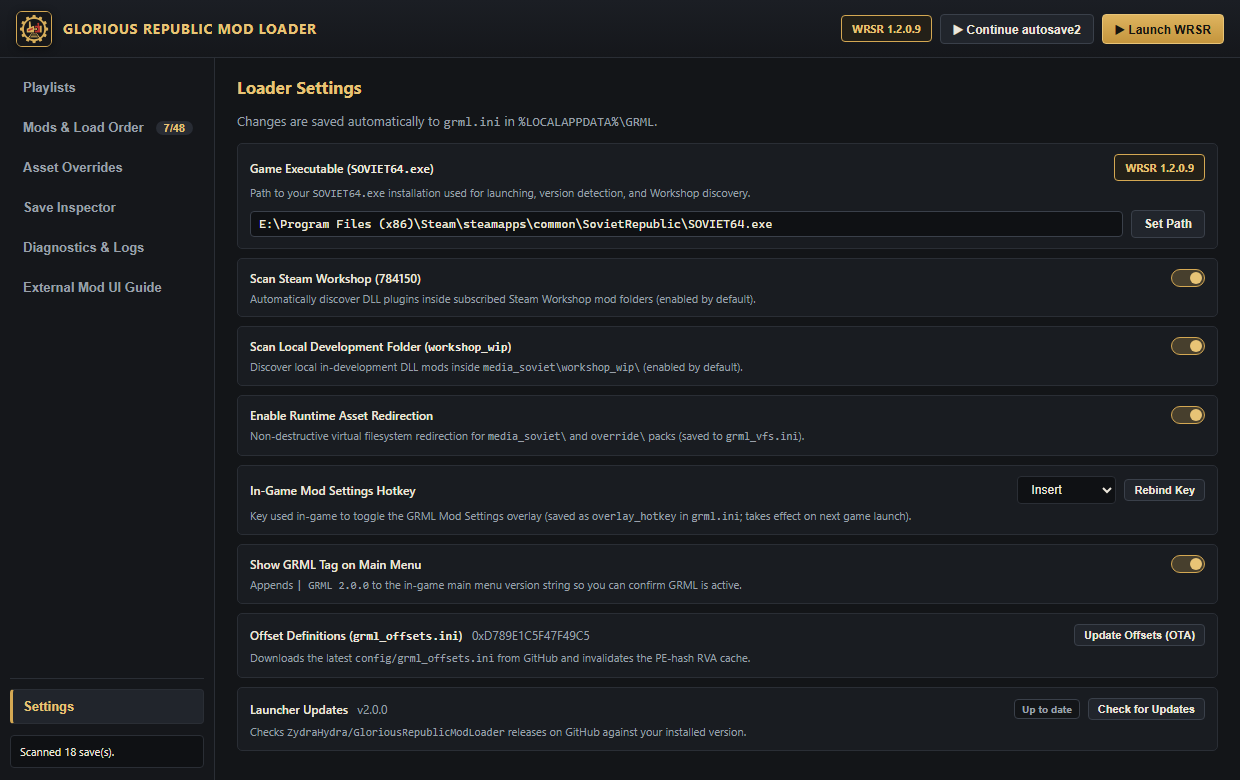
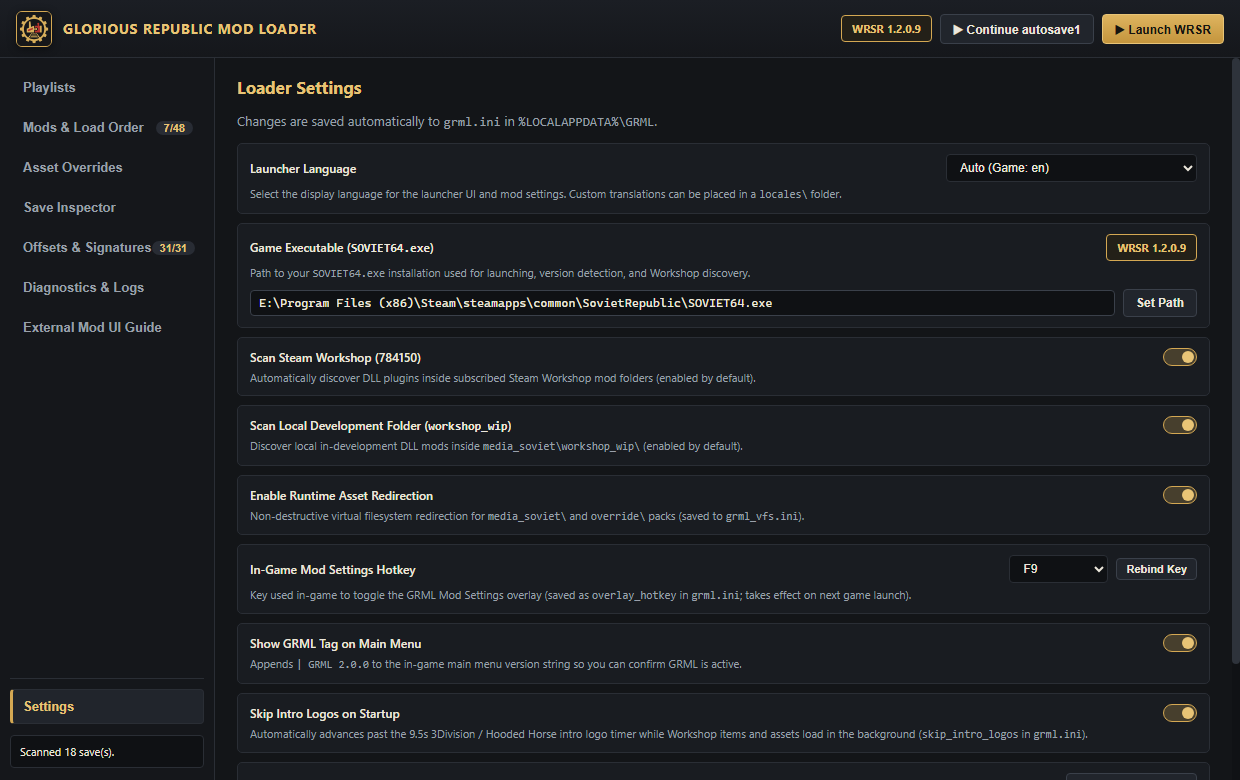
docs: refresh screenshots with Offsets & Signatures page and update docs

diff --git a/scripts/capture_screenshots.ts b/scripts/capture_screenshots.ts
@@ -1,4 +1,4 @@
-// Captures clean 1240x780 screenshots of all 7 GRML Launcher pages into docs/screenshots/
+// Captures clean 1240x780 screenshots of all 8 GRML Launcher pages into docs/screenshots/
 // using GloriousRepublicModLoader.exe --serve-only + headless Microsoft Edge CDP.
 import { dirname, fromFileUrl, join, resolve } from "jsr:@std/path@1";
 import { decodeBase64 } from "jsr:@std/encoding@1/base64";
@@ -220,6 +220,10 @@ try {
   await sleep(350);
   await cdp.screenshot(join(outDir, "04_save_inspector.png"));
 
+  await clickNav("Offsets & Signatures");
+  await sleep(400);
+  await cdp.screenshot(join(outDir, "08_offsets.png"));
+
   await clickNav("Diagnostics & Logs");
   await sleep(500);
   await cdp.screenshot(join(outDir, "05_diagnostics.png"));
@@ -230,7 +234,7 @@ try {
   await clickNav("Settings");
   await cdp.screenshot(join(outDir, "07_settings.png"));
 
-  console.log(`All 7 screenshots saved to ${outDir}`);
+  console.log(`All 8 screenshots saved to ${outDir}`);
 } finally {
   cdp?.close();
   try {

diff --git a/docs/ARCHITECTURE.md b/docs/ARCHITECTURE.md
@@ -8,6 +8,10 @@ GloriousRepublicModLoader.exe (Native Win32 + WebView2, src/launcher/)
    │  • Discovery: plugins, manifests, topo-sort, UI schemas, Media VFS, Save Inspector
    │  • Config I/O: comment-preserving grml.ini, grml_vfs.ini, configs/<id>.ini (%LOCALAPPDATA%\GRML)
    │  • Diagnostics & Updates: SOVIET64.exe status, WER EventID 1000, GitHub Release & Offset OTA check
+   │  • Offsets & Signatures: dedicated page (OffsetsView.svelte) showing 6 categories of grml_offsets.ini
+   │    signatures with live OK/CACHED/MISSING status, latest verified build + hover history, OTA update
+   │  • Pre-flight Gate: cross-checks each mod's required_offsets/optional_offsets before launch and
+   │    classifies mods as Ready / Degraded / Needs Offset Update / Legacy
    │  • Injection: CreateProcessW(CREATE_SUSPENDED) -> LoadLibraryW(grml_runtime.dll) -> GrmlBootstrap
    ▼
 grml_runtime.dll (src/runtime/, injected into SOVIET64.exe)
@@ -22,6 +26,38 @@ grml_runtime.dll (src/runtime/, injected into SOVIET64.exe)
    └── overlay_hub      DX11/ImGui Mod Settings dialog, standalone windows, hotkeys & telemetry
 ```
 
+## Launcher UI Pages (`src/launcher/ui/lib/views/`)
+
+| View file | Nav label | Purpose |
+|---|---|---|
+| `ModsView.svelte` | Mods & Load Order | Enable/disable/reorder plugins, version badges, dependency checks |
+| `PlaylistsView.svelte` | Playlists | Save/restore mod selection presets |
+| `OverridesView.svelte` | Asset Overrides | Media VFS pack priority & conflict inspection |
+| `SaveInspectorView.svelte` | Save Inspector | Scan saves, spot missing Workshop IDs, direct-to-save launch |
+| `DiagnosticsView.svelte` | Diagnostics & Logs | Live grml.log, crash attribution, one-click mod disable |
+| `UIGuideView.svelte` | UI Guide | Declarative & auto-built UI schema reference |
+| `SettingsView.svelte` | Settings | Game path, hotkey, update check, discovery options |
+| `OffsetsView.svelte` | Offsets & Signatures | Per-category offset health, build verification, OTA update |
+
 ## Shared Library (`src/common/`)
 
 Both `GloriousRepublicModLoader.exe` and `grml_runtime.dll` link against `grml_common` so INI parsing/updating, manifest topological sorting, PE/AOB scanning, declarative/auto-built UI schemas, and Media VFS indexing share a single C++20 implementation with zero logic duplication.
+
+## Offset Pipeline
+
+```text
+config/grml_offsets.ini          Declarative patterns (6 categories, multi-version AOB variants)
+        │
+        ▼
+scripts/harvest_anchors.py       Scrapes SOVIET64.exe for anchor byte-sequences to seed new patterns
+scripts/gen_sig.py               Scans a live SOVIET64.exe, generates/updates grml_offsets.ini entries
+        │                        Flags: --category, --required, --strict
+        ▼
+grml_runtime.dll / pe_scanner    At injection time: single-pass .text scan, matches patterns,
+        │                        writes RVA into O(1) PE-hash cache (grml_offset_cache.ini)
+        ▼
+GrmlWrsrOffsets (grml_api.h)     Exposes resolved offsets to mods via GrmlHostApi::GetWrsrOffsets()
+        ▼
+OffsetsView.svelte               Launcher page: live OK/CACHED/MISSING status per offset,
+                                 latest verified build badge + +N hover popover for older builds
+```

diff --git a/README.md b/README.md
@@ -33,6 +33,9 @@ GRML lets you manage Steam Workshop (`784150`) and local DLL mods, tweak mod `.i
   - If `SOVIET64.exe` crashes after loading a save, GRML alerts you with a one-click **Inspect Save** banner.
 - **Diagnostics & CrashGuard:**
   - View live `grml.log` output (with severity highlighting, search, and level filters), Windows crash attribution, and a one-click **Disable Mod** button if a plugin faults.
+- **Offsets & Pre-Flight Compatibility:**
+  - Inspect all 6 categories of `grml_offsets.ini` signatures on the dedicated **Offsets & Signatures** page with live `OK` / `CACHED` / `MISSING` status, latest verified build + hover history, and one-click OTA updates from GitHub.
+  - Pre-flight PE scanning cross-checks each mod's `required_offsets` / `optional_offsets` before launch (`Ready`, `Degraded`, `Needs Offset Update`, `Legacy`) and offers one-click temporary disabling of affected mods.
 
 ---
 
@@ -68,6 +71,9 @@ All user files live in `%LOCALAPPDATA%\GRML`:
 | :---: | :---: |
 | ![Loader Settings](docs/screenshots/07_settings.png) | ![External Mod UI Guide](docs/screenshots/06_ui_guide.png) |
 
+### Offsets & Signatures
+![Offsets & Signatures](docs/screenshots/08_offsets.png)
+
 ---
 
 ## For Mod Authors & Developers
@@ -78,6 +84,7 @@ GRML provides a pure-C ABI (`include/grml_api.h`), declarative UI schemas (`*.ui
 - [Architecture Overview](docs/ARCHITECTURE.md)
 - [Plugin SDK (`include/grml_api.h`)](docs/PLUGIN_SDK.md)
 - [Offsets, PE-Hash Caching & `gen_sig.py`](docs/OFFSETS_AND_SIGNATURES.md)
+- [Base Offset Catalog (`config/grml_offsets.ini`)](docs/OFFSET_CATALOG.md)
 - [Direct-to-Save Launch & Intro Skip (`SOVIET64.exe` `1.2.0.9`)](docs/DIRECT_SAVE_LOAD.md)
 - [Declarative & Auto-Built UI Schema](docs/DECLARATIVE_UI_SCHEMA.md)
 - [Hooking & Performance Rules](docs/HOOKING_AND_PERFORMANCE_RULES.md)
@@ -105,7 +112,7 @@ This builds the SvelteKit static UI (`src/launcher/ui/` -> `build/dist/`), compi
 ├── config/                            # Default grml.ini & grml_offsets.ini
 ├── docs/                              # Architecture, SDK, UI Schema & Hooking rules
 ├── include/grml_api.h                 # Canonical pure-C host/plugin ABI (v2)
-├── scripts/                           # Screenshot capture & reference helper scripts
+├── scripts/                           # Signature/anchor tooling, i18n check, & screenshot capture
 ├── src/
 │   ├── common/                        # PE/AOB scanner, INI, JSON, Manifest, UI Schema, VFS
 │   ├── launcher/                      # Native Win32 + WebView2 host, HTTP API, injector

diff --git a/CHANGELOG.md b/CHANGELOG.md
@@ -1,5 +1,16 @@
 # Changelog
 
+## Glorious Republic Mod Loader (GRML) v2.1.0
+
+### Offsets & Signatures Page
+- **Dedicated "Offsets & Signatures" launcher page (`OffsetsView.svelte`):** Displays all 6 offset categories (`core`, `simulation`, `rendering`, `input`, `audio`, `ui`) with per-row `OK` / `CACHED` / `MISSING` status badges, aligned fixed-width columns, latest verified game build badge, and a `+N` hover popover listing all older verified builds.
+- **Multi-version AOB patterns in `config/grml_offsets.ini`:** Each offset entry now carries separate `pattern_1_1_1_7`, `pattern_1_2_0_8`, and `pattern_1_2_0_9` variants so the runtime can resolve the correct byte sequence without manual edits on game updates.
+- **`scripts/harvest_anchors.py`:** New tool that scrapes a live `SOVIET64.exe` binary for unique anchor byte-sequences to seed new AOB pattern entries.
+- **`scripts/gen_sig.py` extensions:** `--category` flag to target a specific offset group, `--required` / `--strict` flags to gate launch on offset availability, automatic `grml_offsets.ini` write-back.
+- **Pre-flight mod compatibility gate:** Launcher cross-checks each mod's `required_offsets` / `optional_offsets` manifest keys before launch and classifies the mod as `Ready`, `Degraded`, `Needs Offset Update`, or `Legacy`; offers one-click temporary disable for affected mods.
+- **`docs/OFFSET_CATALOG.md`:** New full catalog doc listing all 31 declared offsets across the 6 categories with descriptions, ABI fields, and version coverage.
+- **21 locale files updated** with `nav.offsets` translation key for the new nav tab.
+
 ## Glorious Republic Mod Loader (GRML) v2.0.0
 
 ### Highlights & Architecture
